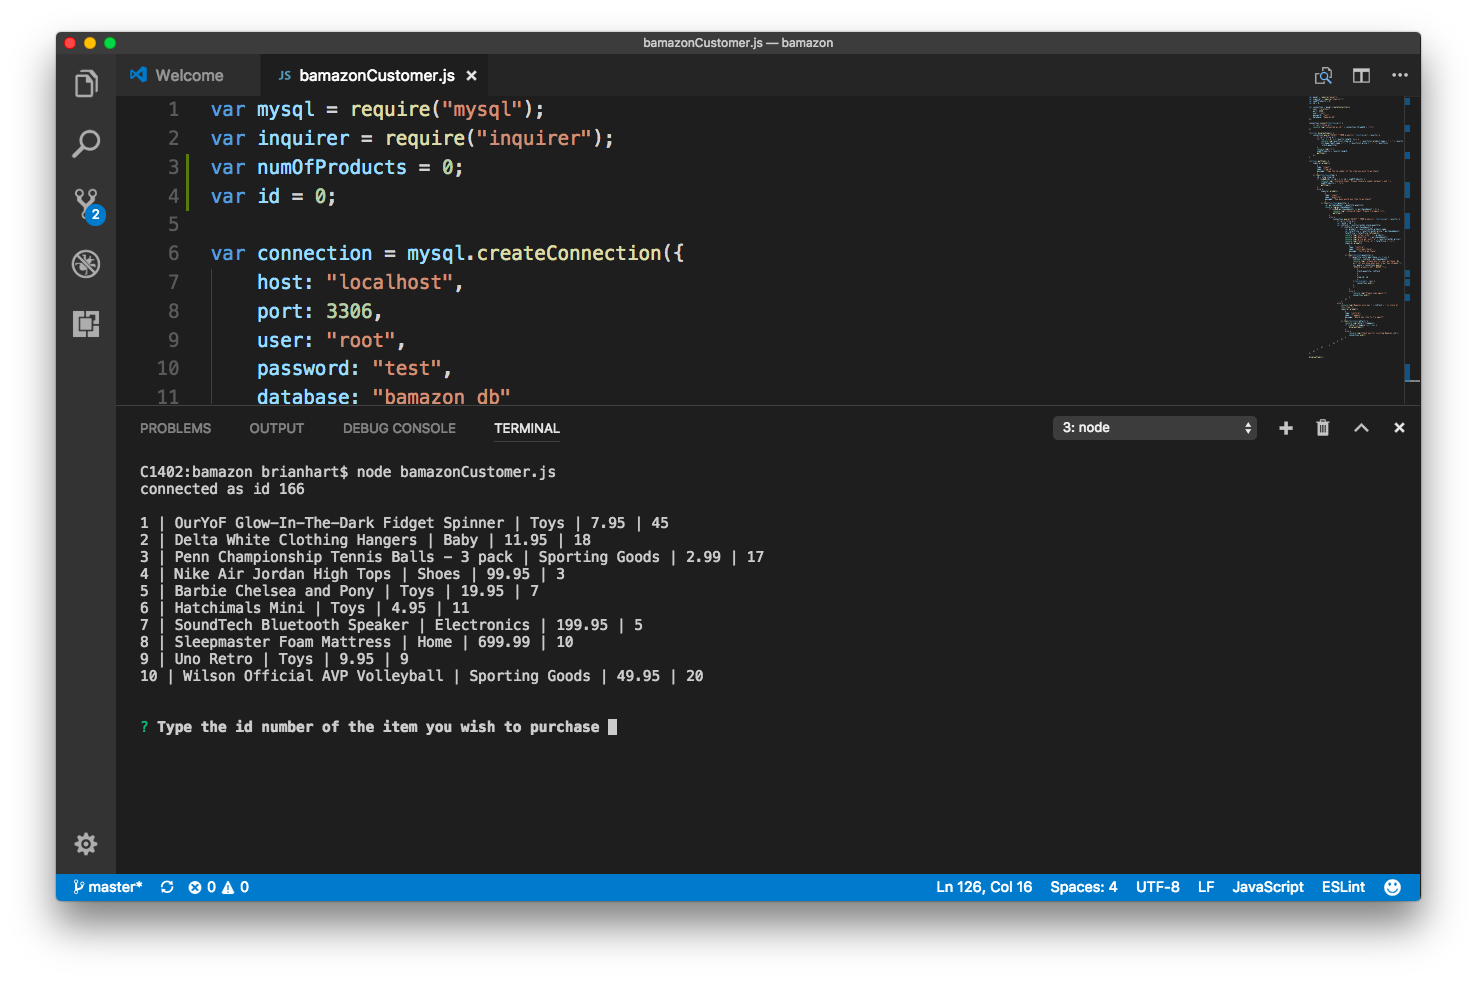
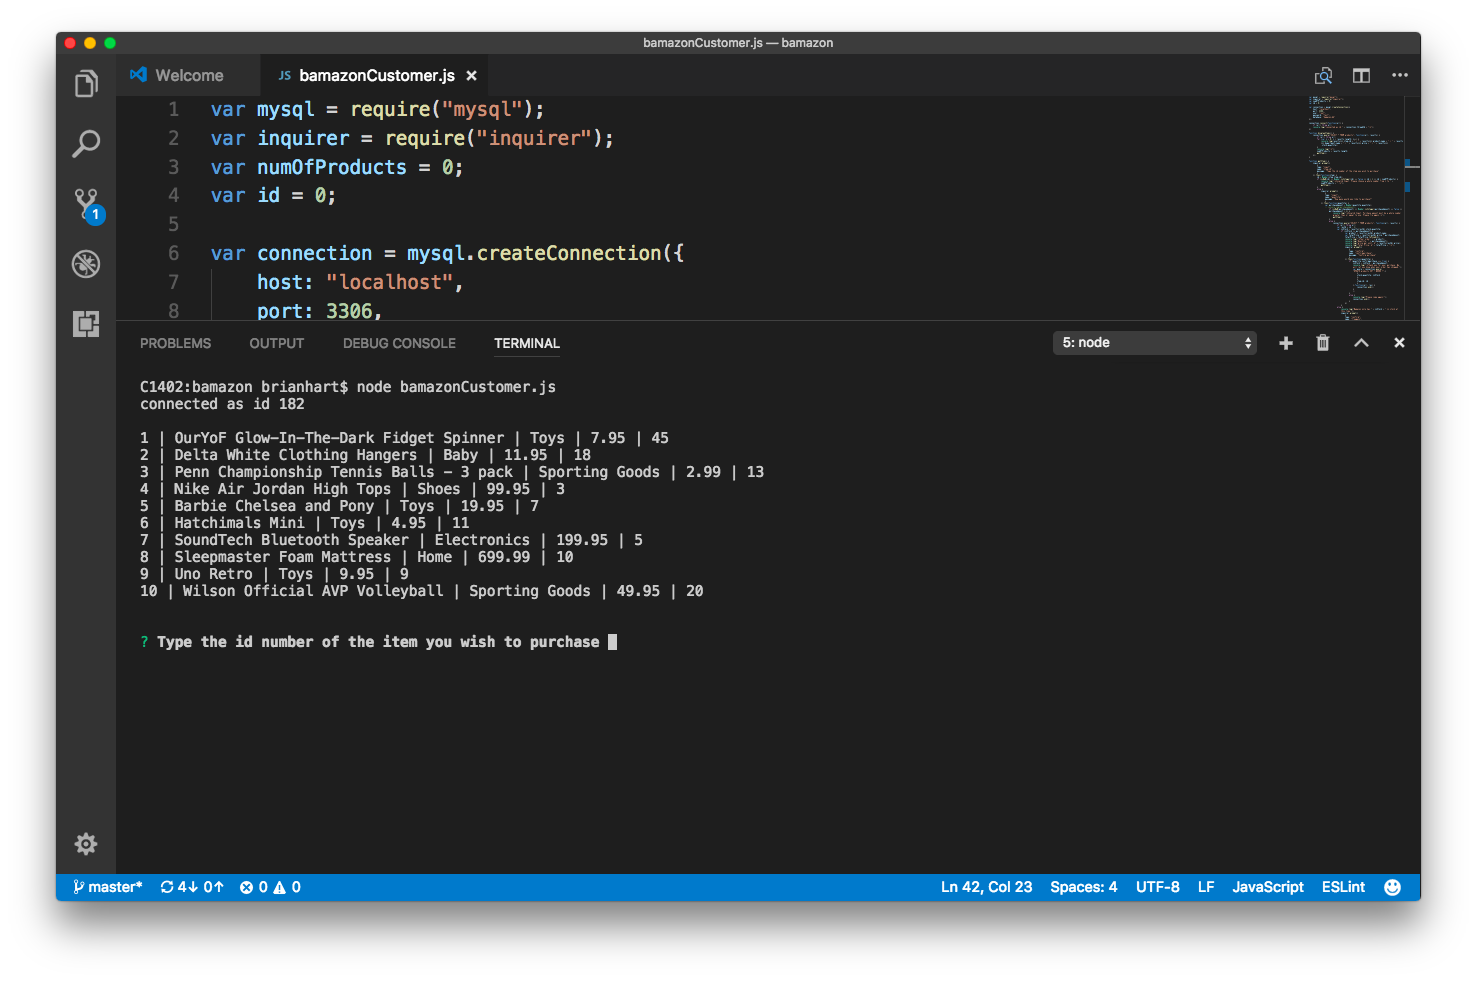
changed screenshots

diff --git a/bamazonCustomer.js b/bamazonCustomer.js
@@ -36,9 +36,9 @@ function getItem() {
         message: "Type the id number of the item you wish to purchase"
         }
     ]).then(function(item) {
-        id = item.item_id;
-        if (isNaN(id) || id < 1 || id > numOfProducts) {
-            console.log("\nInvalid Input. Please choose a number betweet 1 and " + numOfProducts + ".\n");
+        id = Number(item.item_id);
+        if (isNaN(id) || Number.isInteger(id) == false || id < 1 || id > numOfProducts) {
+            console.log("\nInvalid Input. Please choose a whole number from 1 to " + numOfProducts + ".\n");
             getItem();
         }
         else {
@@ -49,10 +49,10 @@ function getItem() {
                 message: "How many would you like to purchase?"
                 }
             ]).then(function(quantity) {
-                var purchaseAmount = quantity.quantity;
-                console.log(purchaseAmount);
-                    if (isNaN(purchaseAmount) || purchaseAmount < 1) {
-                        console.log("\nInvalid Input. Please try again.\n");
+                var purchaseAmount = Number(quantity.quantity);
+                // console.log(purchaseAmount);
+                    if (isNaN(purchaseAmount) || Number.isInteger(purchaseAmount) == false || purchaseAmount < 1) {
+                        console.log("\nInvalid Input. Purchase amount must be a whole number greater than or equal to one. Please try again.\n");
                         getItem();
                     }
                     else {
